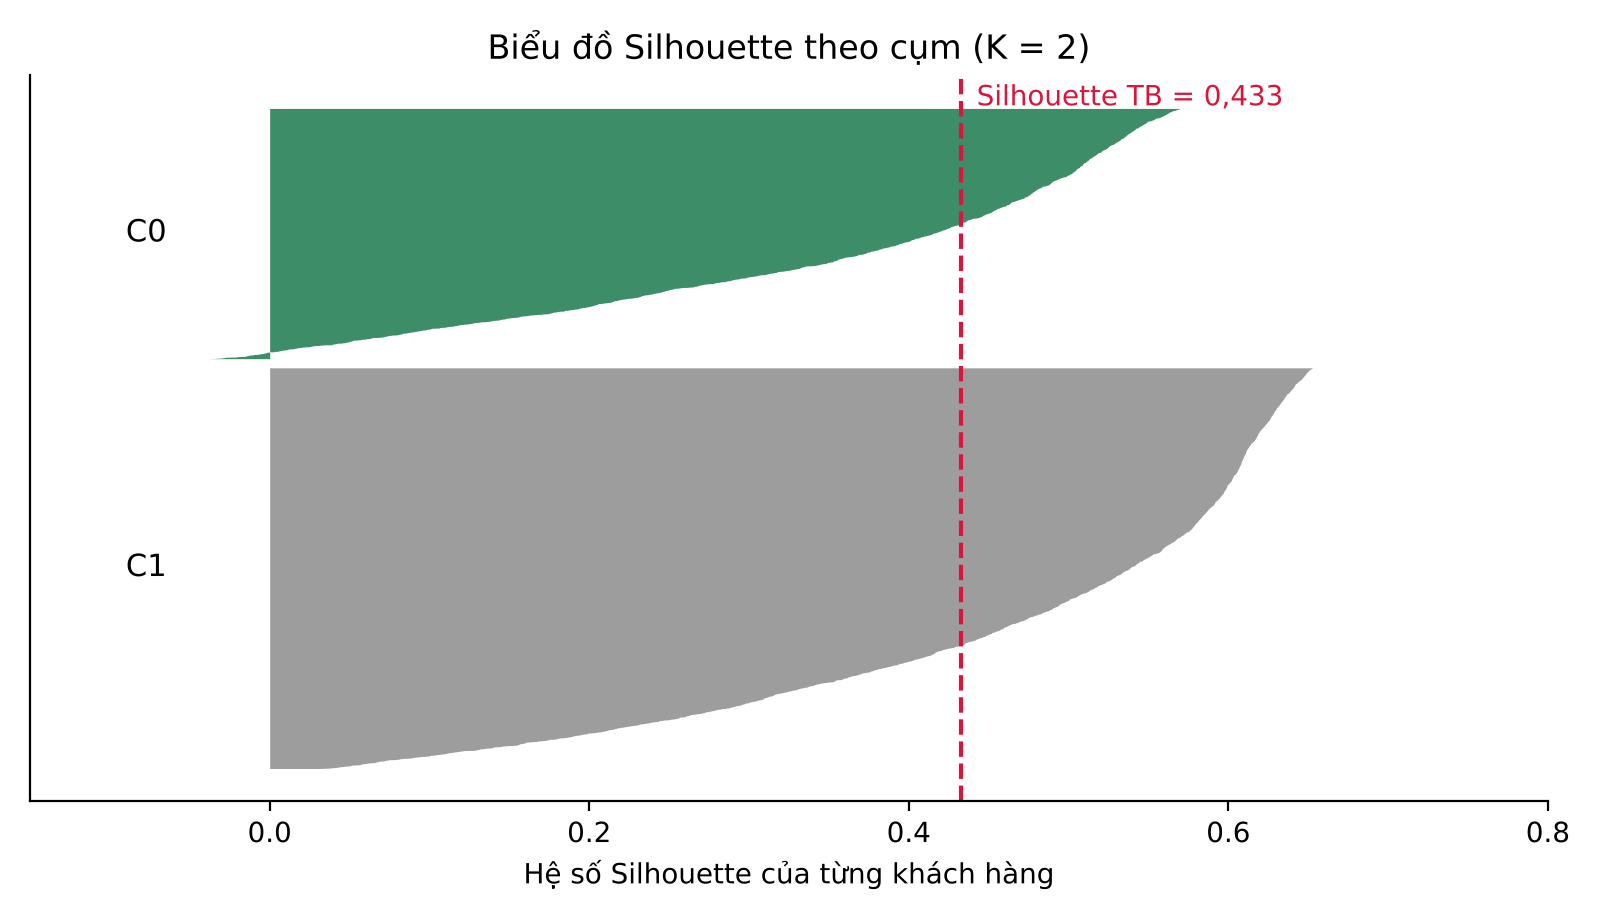
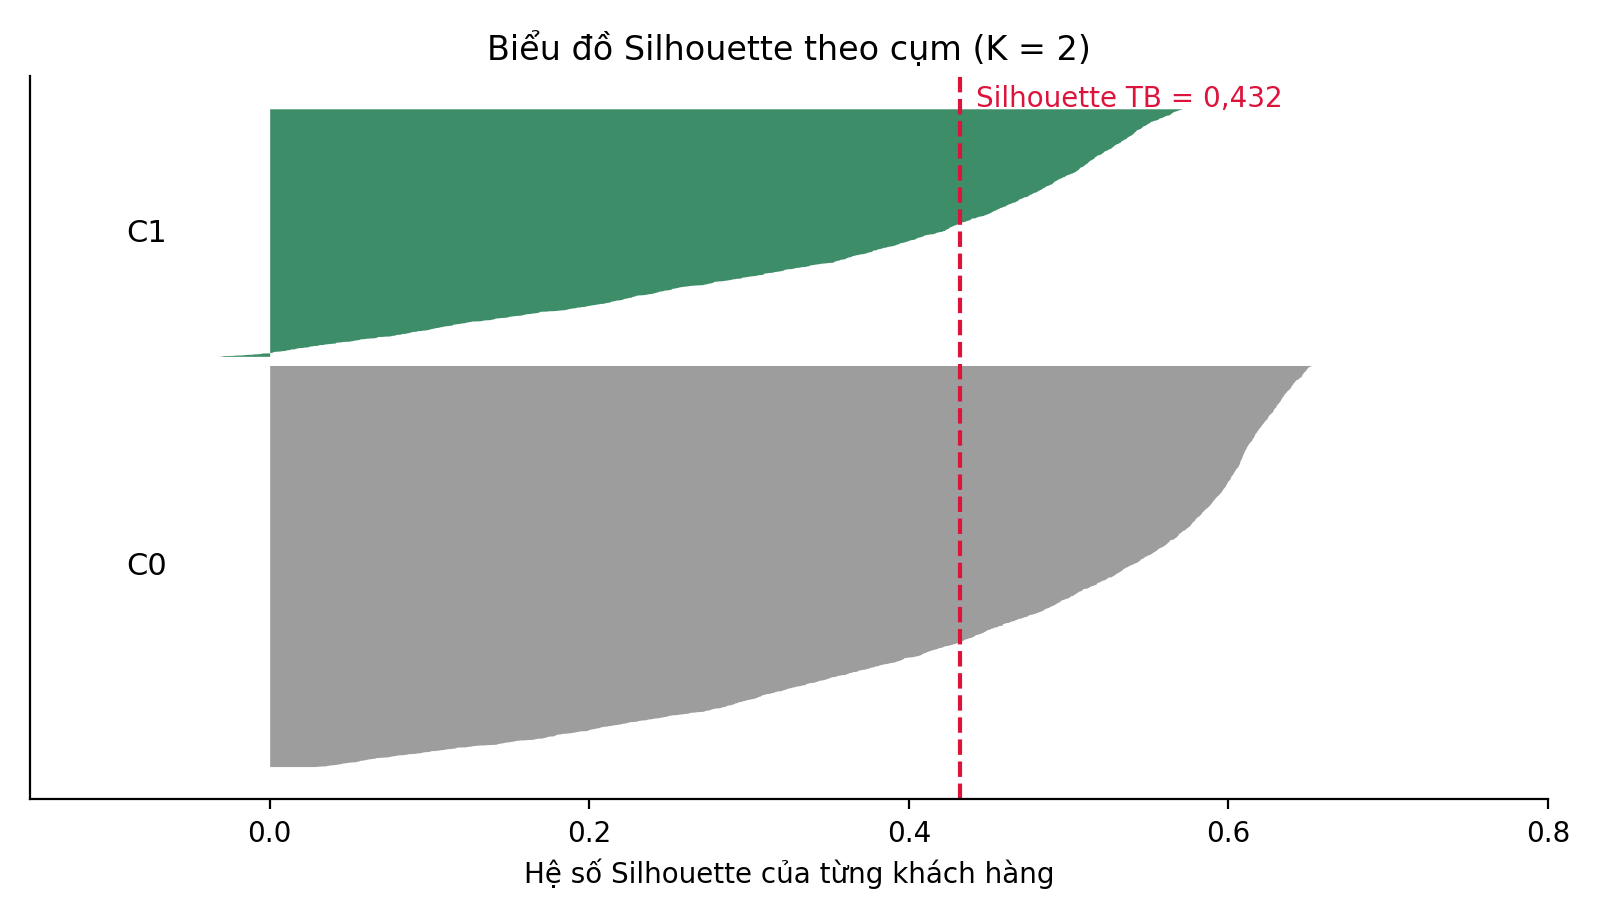
3.5: evaluate the saved K-Means model instead of re-training; redraw figures on new data
- cluster_evaluation.py loads outputs/kmeans_model.joblib, rfm_scaler.joblib, model_info.joblib
  (RFM -> log1p -> saved scaler -> kmeans.predict); segment names from model_info["cluster_mapping"]
- Checks: model K, features/transform, rfm_customers.csv vs training data, median-Monetary cross-check,
  agreement with customer_clusters.csv (ARI = 1.0000, 100% same labels)
- Re-training with seeds 0..9 kept only for the stability (ARI) check
- Regenerated h351-h355 for the new cleaned data (4,320 customers); metrics/profile CSVs unchanged
  (identical to the files already on main)

Claude-Session: https://claude.ai/code/session_01EgwuLShYnGJ8wFKUyP5Maz

diff --git a/customer_segmentation/models/cluster_evaluation.py b/customer_segmentation/models/cluster_evaluation.py
@@ -1,7 +1,11 @@
 """Mục 3.5 - Đánh giá và diễn giải kết quả phân cụm (K-Means, K = 2).
 
+Đánh giá ĐÚNG mô hình đã lưu ở mục 3.4 (không train lại):
+    outputs/kmeans_model.joblib, outputs/rfm_scaler.joblib, outputs/model_info.joblib
+    -> RFM -> log1p -> scaler đã lưu -> kmeans.predict -> tên phân khúc theo model_info["cluster_mapping"]
+
 Đầu vào (theo cấu trúc thư mục chung của nhóm):
-    datasets/processed/Online Retail_cleaned.xlsx  dữ liệu giao dịch sạch (mục 3.2), dùng để tính RFM và thâm niên
+    datasets/processed/Online Retail_cleaned.xlsx  dữ liệu giao dịch sạch (mục 3.2), dùng để tính thâm niên
     datasets/processed/rfm_customers.csv           RFM giá trị gốc của mục 3.3 (nếu có thì dùng thay cho bước tính lại)
     datasets/processed/customer_clusters.csv       nhãn cụm của mục 3.4 (nếu có, dùng để đối chiếu)
 
@@ -15,6 +19,7 @@ Chạy từ thư mục gốc customer_segmentation/:
 """
 from pathlib import Path
 
+import joblib
 import matplotlib
 
 matplotlib.use("Agg")
@@ -32,12 +37,14 @@ from sklearn.metrics import (
     silhouette_samples,
     silhouette_score,
 )
-from sklearn.preprocessing import StandardScaler
 
 ROOT = Path(__file__).resolve().parents[1]
 DATA_DIR = ROOT / "datasets" / "processed"
 OUTPUT_DIR = ROOT / "outputs"
 FIGURE_DIR = OUTPUT_DIR / "figures"
+MODEL_PATH = OUTPUT_DIR / "kmeans_model.joblib"
+SCALER_PATH = OUTPUT_DIR / "rfm_scaler.joblib"
+INFO_PATH = OUTPUT_DIR / "model_info.joblib"
 
 RFM_COLUMNS = ["recency", "frequency", "monetary"]
 N_CLUSTERS = 2
@@ -84,13 +91,50 @@ def load_rfm(transactions: pd.DataFrame) -> pd.DataFrame:
     }).reset_index()
 
 
-def scale_rfm(rfm: pd.DataFrame) -> np.ndarray:
-    """log1p + StandardScaler, đúng quy trình mục 3.3."""
-    return StandardScaler().fit_transform(np.log1p(rfm[RFM_COLUMNS]))
-
-
 def fit_kmeans(x_scaled: np.ndarray, random_state: int = RANDOM_STATE) -> KMeans:
+    """Chỉ dùng cho kiểm tra độ ổn định (ARI); kết quả chính lấy từ mô hình đã lưu."""
     return KMeans(n_clusters=N_CLUSTERS, n_init=N_INIT, random_state=random_state).fit(x_scaled)
+
+
+def load_saved_model():
+    """Nạp K-Means, scaler và thông tin mô hình đã lưu ở mục 3.4."""
+    for path in (MODEL_PATH, SCALER_PATH, INFO_PATH):
+        if not path.exists():
+            raise FileNotFoundError(f"Thiếu {path.relative_to(ROOT)} — chạy models/clustering_model.py --k 2 trước.")
+    model, scaler, info = joblib.load(MODEL_PATH), joblib.load(SCALER_PATH), joblib.load(INFO_PATH)
+    if model.n_clusters != N_CLUSTERS:
+        raise ValueError(f"Mô hình đã lưu có K = {model.n_clusters}, mục 3.5 đánh giá K = {N_CLUSTERS}.")
+    if list(info.get("features", RFM_COLUMNS)) != RFM_COLUMNS or info.get("transform", "log1p") != "log1p":
+        raise ValueError("model_info không khớp quy trình RFM -> log1p -> StandardScaler.")
+    return model, scaler, info
+
+
+def scale_with_saved(rfm: pd.DataFrame, scaler) -> np.ndarray:
+    """log1p + scaler ĐÃ LƯU (không fit lại), đúng như khi mô hình dự đoán khách hàng mới."""
+    return scaler.transform(np.log1p(rfm[RFM_COLUMNS]))
+
+
+def check_model_matches_data(rfm: pd.DataFrame, scaler, info: dict) -> None:
+    """Cảnh báo nếu rfm_customers.csv hiện tại khác dữ liệu đã dùng để train mô hình."""
+    n_model = info.get("n_customers")
+    if n_model is not None and int(n_model) != len(rfm):
+        print(f"  ! Mô hình train trên {n_model} khách, rfm_customers.csv hiện có {len(rfm)} khách.")
+    refit_mean = np.log1p(rfm[RFM_COLUMNS]).mean().to_numpy()
+    if not np.allclose(refit_mean, scaler.mean_, atol=1e-6):
+        print("  ! Trung bình log1p(RFM) hiện tại khác scaler đã lưu -> dữ liệu đã đổi, nên train lại mô hình (mục 3.4).")
+
+
+def segment_names_from_model(rfm: pd.DataFrame, info: dict) -> dict:
+    """Tên phân khúc lấy từ model_info["cluster_mapping"]; nếu thiếu thì gán theo trung vị Monetary."""
+    mapping = info.get("cluster_mapping")
+    if not mapping:
+        return name_segments(rfm)
+    names = {int(c): (m["segment_name_vi"], m["segment_name_en"]) for c, m in mapping.items()}
+    # Kiểm tra chéo: cụm được đặt tên "giá trị cao" phải có trung vị Monetary cao nhất
+    high = rfm.groupby("cluster")["monetary"].median().idxmax()
+    if names[high][1] != SEGMENT_NAMES["high_value"][1]:
+        print("  ! cluster_mapping trong model_info ngược với hồ sơ RFM — kiểm tra lại mục 3.4.")
+    return names
 
 
 def name_segments(rfm: pd.DataFrame) -> dict:
@@ -102,9 +146,10 @@ def name_segments(rfm: pd.DataFrame) -> dict:
 
 def evaluate_model(x_scaled, labels, kmeans) -> pd.DataFrame:
     sil = silhouette_samples(x_scaled, labels)
+    # Độ ổn định: train lại với random_state 0..9 (chỉ để so sánh), đối chiếu với nhãn của mô hình đã lưu
     aris = [adjusted_rand_score(labels, fit_kmeans(x_scaled, s).labels_) for s in range(10)]
     rows = [
-        ("inertia", kmeans.inertia_),
+        ("inertia", -kmeans.score(x_scaled)),       # inertia của mô hình đã lưu trên dữ liệu đánh giá
         ("silhouette", silhouette_score(x_scaled, labels)),
         ("davies_bouldin", davies_bouldin_score(x_scaled, labels)),
         ("calinski_harabasz", calinski_harabasz_score(x_scaled, labels)),
@@ -294,9 +339,12 @@ def main():
     transactions = load_transactions()
     rfm = load_rfm(transactions)
     x_log = np.log1p(rfm[RFM_COLUMNS])
-    x_scaled = scale_rfm(rfm)
-    kmeans = fit_kmeans(x_scaled)
-    labels = kmeans.labels_
+
+    kmeans, scaler, info = load_saved_model()
+    print(f"Đánh giá mô hình đã lưu: {MODEL_PATH.relative_to(ROOT)} (K = {kmeans.n_clusters})")
+    check_model_matches_data(rfm, scaler, info)
+    x_scaled = scale_with_saved(rfm, scaler)
+    labels = kmeans.predict(x_scaled)
     rfm["cluster"] = labels
 
     clusters_path = DATA_DIR / "customer_clusters.csv"
@@ -305,9 +353,10 @@ def main():
         if "cluster" in ref.columns:
             merged = rfm[["customer_id", "cluster"]].merge(ref[["customer_id", "cluster"]], on="customer_id")
             ari = adjusted_rand_score(merged["cluster_x"], merged["cluster_y"])
-            print(f"ARI so với customer_clusters.csv của mục 3.4: {ari:.4f}")
+            same = (merged["cluster_x"] == merged["cluster_y"]).mean() * 100
+            print(f"Đối chiếu customer_clusters.csv của mục 3.4: ARI = {ari:.4f}, trùng nhãn {same:.2f}%")
 
-    names = name_segments(rfm)
+    names = segment_names_from_model(rfm, info)
     rfm["segment_name"] = rfm["cluster"].map(lambda c: names[c][0])
     rfm["segment_name_en"] = rfm["cluster"].map(lambda c: names[c][1])
     rfm = add_tenure(rfm, transactions)
